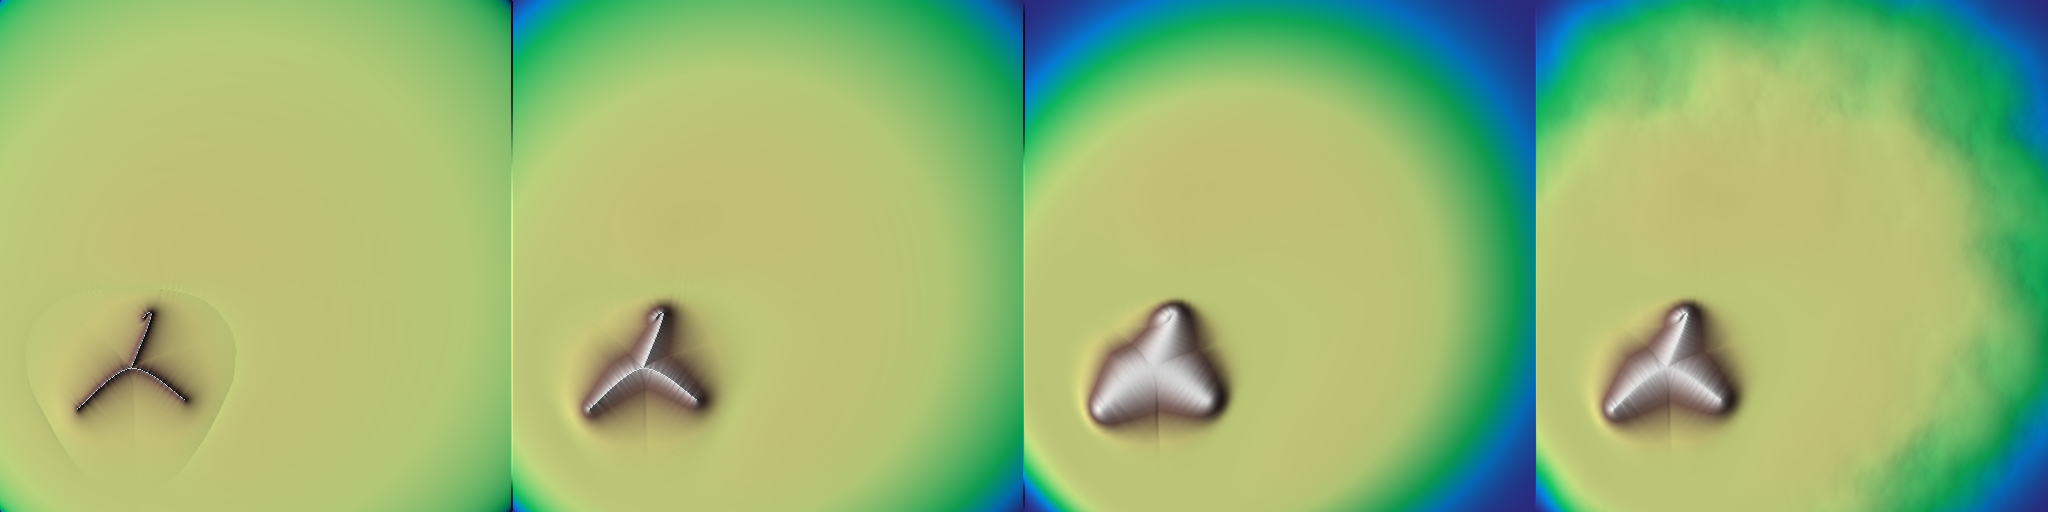
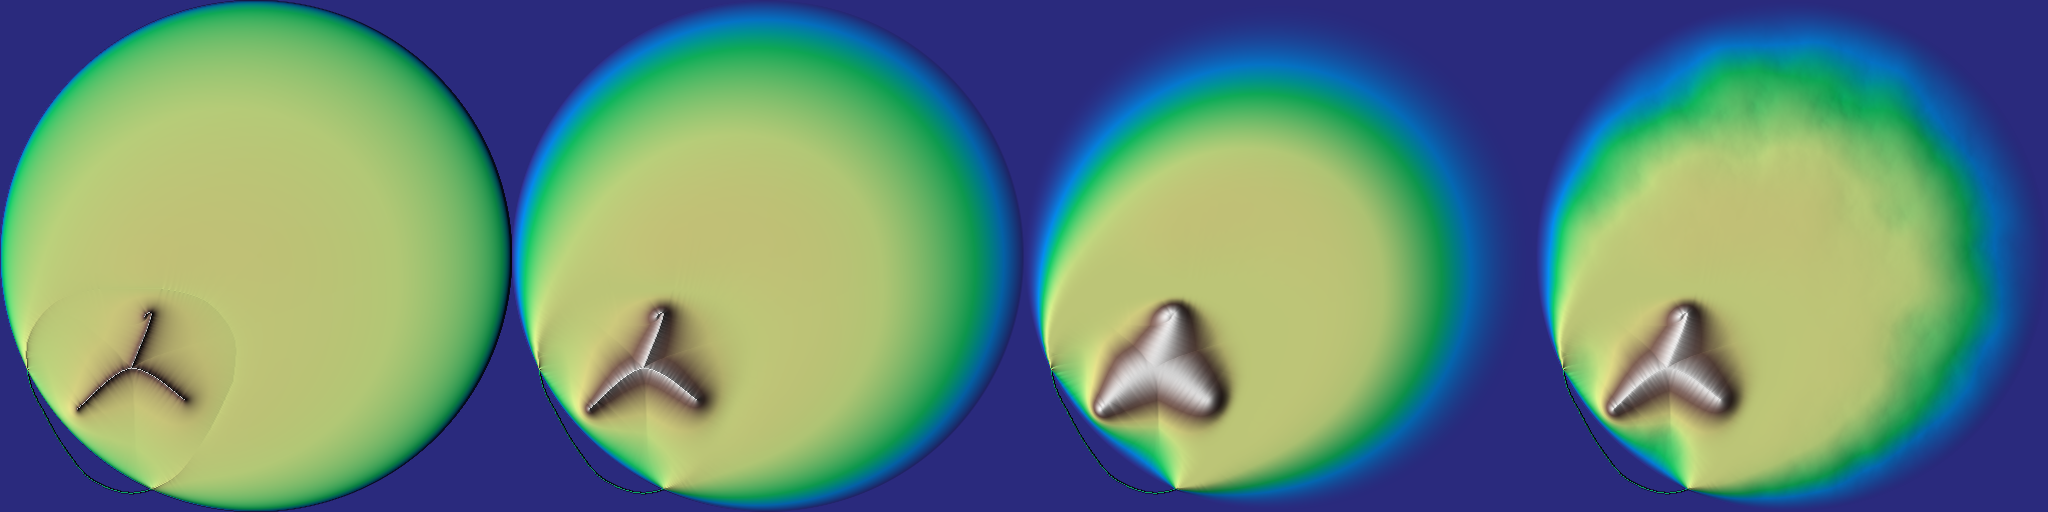
refactor: move scalar r_min/r_max definitions to core.cpp and update default boundary distance (#411)

diff --git a/HighMap/src/authoring/elevation_from_distance_fields.cpp b/HighMap/src/authoring/elevation_from_distance_fields.cpp
@@ -71,13 +71,13 @@ Array elevation_from_distance_fields(const Array          &mountains,
   }
   else if (p_boundary == nullptr)
   {
-    // Explicit radial distance from center (radius normalized by half diagonal
-    // length)
+    // Explicit radial distance from center using domain width and height
+    // (semi-axes rx and ry) instead of the diagonal
     dB = Array(shape);
     float cx = 0.5f * static_cast<float>(shape.x - 1);
     float cy = 0.5f * static_cast<float>(shape.y - 1);
-    float r_max = std::sqrt(cx * cx + cy * cy);
-    if (r_max <= 0.f) r_max = 1.f;
+    float rx = (cx <= 0.f) ? 1.f : cx;
+    float ry = (cy <= 0.f) ? 1.f : cy;
 
     for (int j = 0; j < shape.y; ++j)
     {
@@ -85,9 +85,26 @@ Array elevation_from_distance_fields(const Array          &mountains,
       {
         float dx = static_cast<float>(i) - cx;
         float dy = static_cast<float>(j) - cy;
-        float r = std::sqrt(dx * dx + dy * dy);
-        float d = r_max - r;
-        dB(i, j) = (d <= 1e-5f) ? 0.f : d;
+        float rho2 = (dx * dx) / (rx * rx) + (dy * dy) / (ry * ry);
+
+        if (rho2 >= 1.f)
+        {
+          dB(i, j) = 0.f;
+        }
+        else
+        {
+          float r_euclid = std::sqrt(dx * dx + dy * dy);
+          if (r_euclid <= 1e-5f)
+          {
+            dB(i, j) = std::min(rx, ry);
+          }
+          else
+          {
+            float rho = std::sqrt(rho2);
+            float R_theta = r_euclid / rho;
+            dB(i, j) = R_theta - r_euclid;
+          }
+        }
       }
     }
     has_boundary = true;

diff --git a/HighMap/include/highmap/math/core.hpp b/HighMap/include/highmap/math/core.hpp
@@ -151,11 +151,7 @@ float power_curve(float x, float a, float b);
  *               exact min.
  * @return       Smooth minimum value.
  */
-inline float r_min(float f1, float f2, float alpha = 0.f)
-{
-  float disc = std::max(0.f, f1 * f1 + f2 * f2 - 2.f * alpha * f1 * f2);
-  return (f1 + f2 - std::sqrt(disc)) / (1.f + alpha);
-}
+float r_min(float f1, float f2, float alpha = 0.f);
 
 /**
  * @brief Generalized Rvachev R-function for smooth maximum / union (exact
@@ -172,11 +168,7 @@ inline float r_min(float f1, float f2, float alpha = 0.f)
  *               exact max.
  * @return       Smooth maximum value.
  */
-inline float r_max(float f1, float f2, float alpha = 0.f)
-{
-  float disc = std::max(0.f, f1 * f1 + f2 * f2 - 2.f * alpha * f1 * f2);
-  return (f1 + f2 + std::sqrt(disc)) / (1.f + alpha);
-}
+float r_max(float f1, float f2, float alpha = 0.f);
 
 /**
  * @brief Sigmoid function.

diff --git a/HighMap/src/math/core.cpp b/HighMap/src/math/core.cpp
@@ -72,6 +72,18 @@ float power_curve(float x, float a, float b)
   return k * std::pow(x, a) * std::pow(1.f - x, b);
 }
 
+float r_min(float f1, float f2, float alpha)
+{
+  float disc = std::max(0.f, f1 * f1 + f2 * f2 - 2.f * alpha * f1 * f2);
+  return (f1 + f2 - std::sqrt(disc)) / (1.f + alpha);
+}
+
+float r_max(float f1, float f2, float alpha)
+{
+  float disc = std::max(0.f, f1 * f1 + f2 * f2 - 2.f * alpha * f1 * f2);
+  return (f1 + f2 + std::sqrt(disc)) / (1.f + alpha);
+}
+
 float sigmoid(float x, float width, float vmin, float vmax, float x0)
 {
   float v = 1.f / (1.f + std::exp(-(x - x0) / width));
